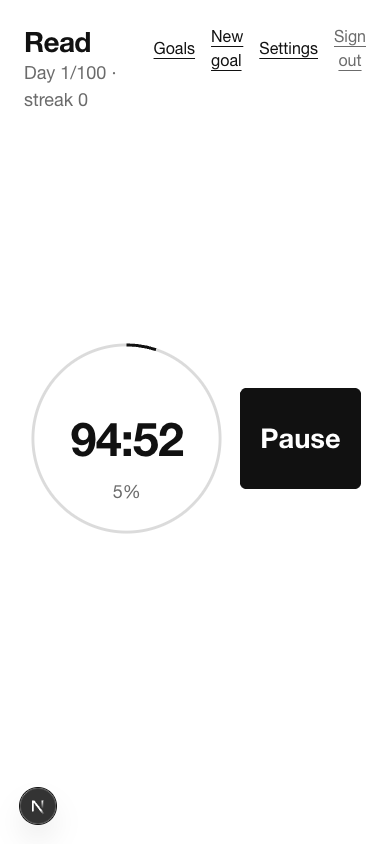
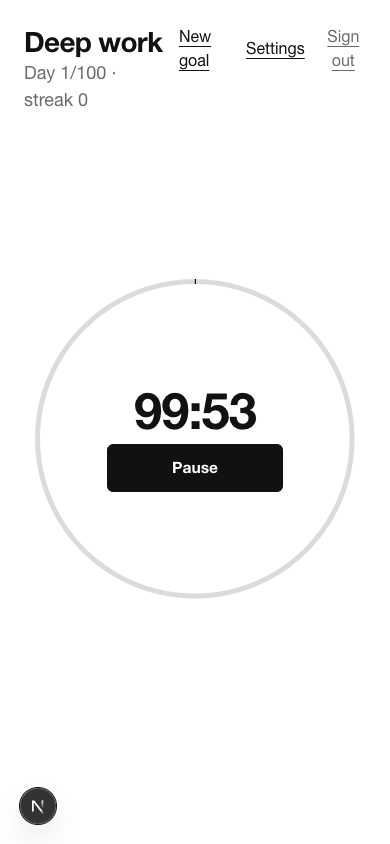
docs: mark T10, T11, F01 done; add F07 follow-up; refresh T11 timer screenshot
Claude-Session: https://claude.ai/code/session_018paPsUNV2Eu2KnptkdKAJW

diff --git a/docs/roadmap.md b/docs/roadmap.md
@@ -20,14 +20,15 @@
 | `R100-T08` | Landscape / nightstand mode: full-screen goal, swipe between goals, Wake Lock | 4 | T06, T07 | hecha | [#9](https://github.com/jmoraxix/rule-of-100/pull/9) |
 | `R100-T09` | Completion animation + light/dark following system | 4 | T06 | hecha | [#9](https://github.com/jmoraxix/rule-of-100/pull/9) |
 | `R100-I02` | Infra: push migrations to hosted Supabase, auth config for review (auth config pending: owner, project not reachable by CLI token) | infra | T03 | parcial | — |
-| `R100-F01` | `timer_pause` FOR UPDATE lock (security MINOR #8); done by T11 | 1 | T03 | pr-abierto | [#11](https://github.com/jmoraxix/rule-of-100/pull/11) |
+| `R100-F01` | `timer_pause` FOR UPDATE lock (security MINOR #8); done by T11 | 1 | T03 | hecha | [#11](https://github.com/jmoraxix/rule-of-100/pull/11) |
 | `R100-F02` | Mutation tests for midnight cap, ownership filter, one-timer pre-check, revokes (security MINOR #8) | 1 | T03 | pendiente | — |
 | `R100-F03` | Onboarding uses client `data.user!.id`; handle an expired session ([#9 security review](https://github.com/jmoraxix/rule-of-100/pull/9#issuecomment-6009037953)) | 2 | T04 | pendiente | — |
 | `R100-F04` | `loadActive` swallows errors and redirects to onboarding; surface the error ([#9 security review](https://github.com/jmoraxix/rule-of-100/pull/9#issuecomment-6009037953)) | 2 | T05 | pendiente | — |
 | `R100-F05` | e2e check: signed-out access to `/` and `/goals/:id` redirects ([#9 security review](https://github.com/jmoraxix/rule-of-100/pull/9#issuecomment-6009037953)) | 2 | T04 | pendiente | — |
 | `R100-F06` | Google sign-in (needs owner OAuth client) | 2 | T04 | pendiente | — |
-| `R100-T10` | UI tweaks: +1 beside counter, Pause button, larger fluid text, Google button, countdown timer with beep | 5 | T04-T09 | pr-abierto | [#10](https://github.com/jmoraxix/rule-of-100/pull/10) |
-| `R100-T11` | Timer stops at 0 (6000 s) on the server unless overtime; "Start overtime"; ring fits viewport, `+` button, one control slot in the ring | 5 | T03, T10 | pr-abierto | [#11](https://github.com/jmoraxix/rule-of-100/pull/11) |
+| `R100-T10` | UI tweaks: +1 beside counter, Pause button, larger fluid text, Google button, countdown timer with beep | 5 | T04-T09 | hecha | [#10](https://github.com/jmoraxix/rule-of-100/pull/10) |
+| `R100-T11` | Timer stops at 0 (6000 s) on the server unless overtime; "Start overtime"; ring fits viewport, `+` button, one control slot in the ring | 5 | T03, T10 | hecha | [#11](https://github.com/jmoraxix/rule-of-100/pull/11) |
+| `R100-F07` | Cap the 1 s 'Syncing…' poll at 0 (security MINOR #11) | 5 | T11 | pendiente | [#11](https://github.com/jmoraxix/rule-of-100/pull/11) |
 
 ## Open questions (block nothing above yet; `docs/proyecto.md` §Product → Open Questions)
 
@@ -37,6 +38,8 @@
 ## Log
 
 <!-- Newest first: `- YYYY-MM-DD · [ID](tareas/ID.md) — title · #PR` -->
+- 2026-10-05 · [R100-T11](tareas/R100-T11.md) — Timer stops at 0 on the server, overtime, ring fits viewport; closes F01 · #11
+- 2026-10-05 · [R100-T10](tareas/R100-T10.md) — UI tweaks: +1 beside counter, Pause, larger text, Google button, countdown · #10
 - 2026-10-05 · [R100-T04](tareas/R100-T04.md) — MVP UI: auth, onboarding, home, daily screen, landscape, completion (T04-T09) · #9
 - 2026-10-05 · [R100-T03](tareas/R100-T03.md) — SQL functions for progress + goal_progress view · #8
 

diff --git a/docs/tareas/R100-T10.md b/docs/tareas/R100-T10.md
@@ -1,7 +1,7 @@
 ---
 id: R100-T10
 titulo: "UI tweaks from owner feedback: +1 beside counter, Pause button, larger text, Google sign-in, countdown timer"
-estado: pr-abierto
+estado: hecha
 pr: 10
 fecha: 2026-10-05
 rama: feat/t10-ui-tweaks

diff --git a/docs/tareas/R100-T11.md b/docs/tareas/R100-T11.md
@@ -1,7 +1,7 @@
 ---
 id: R100-T11
 titulo: "Timer stops at 0 on the server; Start overtime; ring/controls layout fixes"
-estado: pr-abierto
+estado: hecha
 pr: 11
 fecha: 2026-10-05
 rama: feat/t11-timer-stop-at-zero
